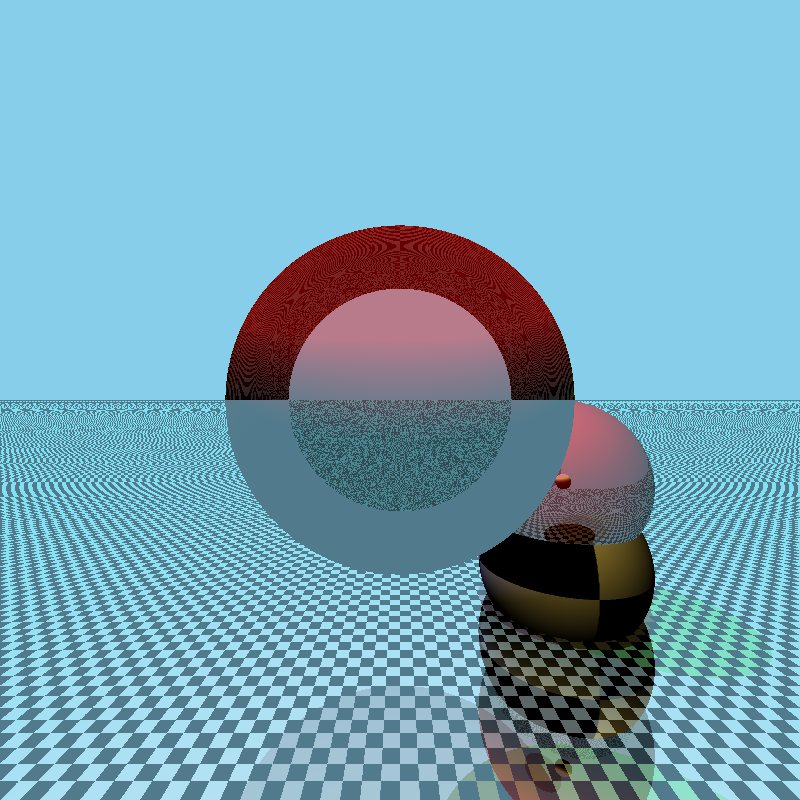
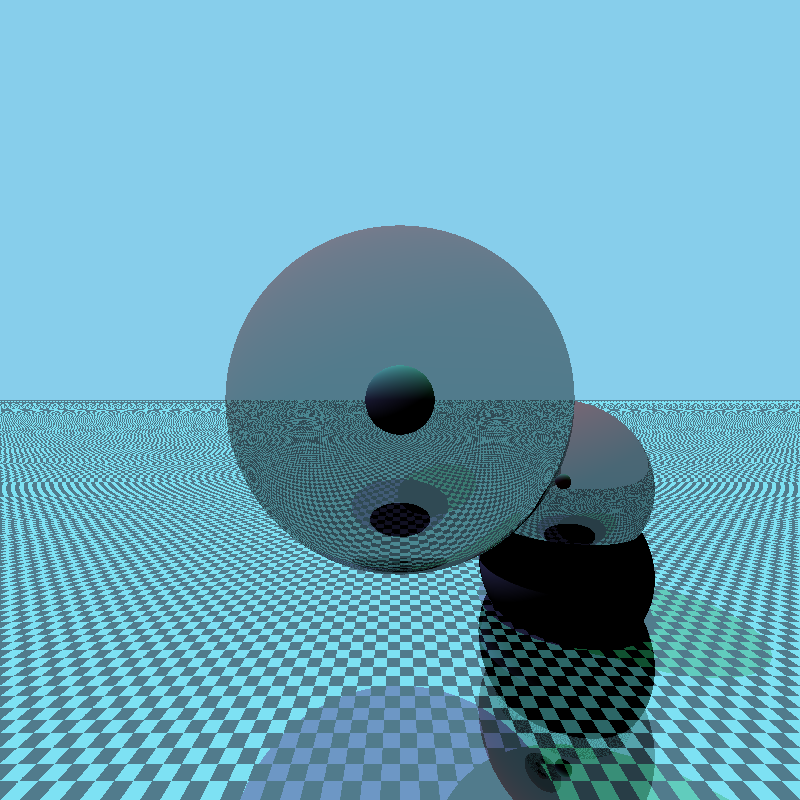
benchmarks restaurados, corregido error al deserializar TextureData y rendimiento mejorado en alrededor de un 86%

Changed region(s): [[0.0, 0.2812, 1.0, 1.0]]

diff --git a/src/lib.rs b/src/lib.rs
@@ -6,10 +6,10 @@ pub mod objects;
 pub mod color;
 pub mod textures;
 pub mod material;
-use maths::vector3::Vector3;
 use maths::point::Point3D;
+use maths::vector3::Vector3;
 use color::Color;
-use objects::Ray;
+use objects::{Ray,SceneObject};
 use image::{DynamicImage, GenericImage};
 pub use image;
 #[derive(Serialize,Deserialize)]
@@ -52,7 +52,7 @@ impl Scene{
         imagen
     }
     fn object_between(&self,ray: &Ray)->bool{
-        for objeto in self.parse_array(){
+        for objeto in &self.objects_list{
             if objeto.intersection_point(&ray).is_some() {
                  return true;
             }
@@ -61,7 +61,7 @@ impl Scene{
     }
     fn object_between_with_point(&self,ray:&Ray)->Vec<Point3D>{
         let mut intersecciones = Vec::new();
-        for objeto in &self.parse_array(){
+        for objeto in &self.objects_list{
             if let Some(valor) = objeto.intersection_point(&ray){
                 intersecciones.push(valor);
             }
@@ -69,7 +69,7 @@ impl Scene{
         intersecciones
     }
     //esto es ineficiente pero me evita tener que reescribir mucho codigo
-    #[inline]
+    /*#[inline]
     fn parse_array(&self)->Vec<Box<&dyn objects::SceneObject>>{
         let mut vector: Vec<Box<&dyn objects::SceneObject>> = Vec::new();
         for objeto in &self.objects_list{
@@ -79,11 +79,11 @@ impl Scene{
             }
         }
         vector
-    }
+    }*/
     fn ray_caster(&self,rayo: &Ray,current_iteration: usize)->Option<Color>{
         let mut temp = None;
         let mut minimum_distance_to_intersection = (0.0,true);
-        for objeto in self.parse_array(){
+        for objeto in &self.objects_list{
             if let Some(hit_point) = objeto.intersection_point(&rayo){
                 let hit_point_module = hit_point.module();
                 if hit_point_module<minimum_distance_to_intersection.0 || minimum_distance_to_intersection.1 {
@@ -155,7 +155,7 @@ mod tests{
             Material::new( 
                 Texture::SolidColor(Color::new(1.0,0.0,0.0)),
                 0.5,
-                MaterialType::Refractive{refraction_index: 1.5,transparency:0.6}
+                MaterialType::Reflective{reflectivity:0.6}
             )
         )));
         escena.objects_list.push(Object::Sphere(Sphere::new(
@@ -289,5 +289,58 @@ mod tests{
             )
         )));
         escena.render().save("texturas.png").unwrap();
+    }
+    #[test]
+    fn luz_puntual() {
+        let mut escena = Scene::new();
+        escena.widht = 800;
+        escena.height = 800;
+        escena.lights.push(
+            Light::Spherical(
+                SphericalLight::new(
+                    Point3D::new(0.0, 6.0, -5.0), 
+                    Color::new_white(), 
+                    2000000.0,
+                )
+            )
+        );
+        escena.objects_list.push(Object::Sphere(Sphere::new(
+            Point3D::new(0.0, 0.0, -5.0),
+            2.0,
+            Material::new( 
+                Texture::SolidColor(Color::new(1.0,0.0,0.0)),
+                0.5,
+                MaterialType::Opaque
+            )
+        )));
+        escena.objects_list.push(Object::Sphere(Sphere::new(
+            Point3D::new(4.0, -4.0, -10.0),
+            2.0,
+            Material::new( 
+                Texture::new_texture("checkerboard.png".to_string()),
+                0.5,
+                MaterialType::Opaque
+            )
+        )));
+        escena.objects_list.push(Object::Sphere(Sphere::new(
+            Point3D::new(4.0, -2.0, -10.0),
+            2.0,
+            Material::new( 
+                Texture::SolidColor(Color::new(1.0,0.0,0.0)),
+                0.5,
+                MaterialType::Reflective{reflectivity: 0.5}
+                
+            )
+        )));
+        escena.objects_list.push(Object::Plane(Plane::new(
+            Point3D::new(0.0,-5.0,0.0),
+            Vector3D::new(0.0, 1.0, 0.0), 
+            Material::new( 
+                Texture::new_texture("checkerboard.png".to_string()),
+                0.5,
+                MaterialType::Opaque
+            )
+        )));
+        escena.render().save("luz_puntual.png").unwrap();
     }
 }

diff --git a/src/objects.rs b/src/objects.rs
@@ -84,6 +84,36 @@ pub enum Object{
     Plane(objects::Plane),
     Sphere(objects::Sphere),
 }
+impl SceneObject for Object{
+    #[inline]
+    fn intersection_point(&self,ray:&Ray)->Option<Point3D>{
+        match self{
+            Object::Plane(valor)=>valor.intersection_point(&ray),
+            Object::Sphere(valor)=>valor.intersection_point(&ray),
+        }
+    }
+    #[inline]
+    fn surface_normal(&self,hit_point: &Point3D)->Vector3D{
+        match self{
+            Object::Plane(valor)=>valor.surface_normal(&hit_point),
+            Object::Sphere(valor)=>valor.surface_normal(&hit_point),
+        }
+    }
+    #[inline]
+    fn object_material(&self)->&Material{
+        match self{
+            Object::Plane(valor)=>valor.object_material(),
+            Object::Sphere(valor)=>valor.object_material(),
+        }
+    }
+    #[inline]
+    fn texture_coordinates(&self,hit_point: &Point3D)->TextureCoordinates{
+        match self{
+            Object::Plane(valor)=>valor.texture_coordinates(&hit_point),
+            Object::Sphere(valor)=>valor.texture_coordinates(&hit_point),
+        }
+    }
+}
 #[derive(Debug,Clone,Serialize,Deserialize)]
 pub struct DirectionalLight{
     pub color: Color,
@@ -180,7 +210,7 @@ pub trait SceneObject{
             }else if let Light::Spherical(luz) = light {
                 light_color = &luz.color;
                 direction = (hit_point.clone() - luz.punto.clone()).into_vector();
-                let shadow_ray = Ray::new(luz.punto.clone()/* + (self.surface_normal(&hit_point)*scene.shadow_bias).into_point()*/,direction.clone());          
+                let shadow_ray = Ray::new(luz.punto.clone()+ (self.surface_normal(&hit_point)*scene.shadow_bias).into_point(),direction.clone());          
                 let mut temp:f64 = luz.intensidad / (std::f64::consts::PI * 4.0 * direction.module().powi(2));
                 for punto in scene.object_between_with_point(&shadow_ray) {
                     if (punto - luz.punto.clone()).module() < direction.module(){
@@ -232,10 +262,6 @@ pub mod objects{
     }
     impl SceneObject for Sphere{
         fn intersection_point(&self,ray: &Ray)->Option<Point3D>{
-            //Como uso trait objects, esta fue la mejor solucion que encontré para evitar que marque sombra en sus propias intersecciones
-            if ((ray.punto.clone()-self.center.clone()).module() - self.radio).abs() < 1e-6{
-                return None;
-            }
             let aux = ray.direccion.clone().normalize().dot_product(&(ray.punto.clone() - self.center.clone()));
             let discriminante = aux.powi(2)-((ray.punto.clone()-self.center.clone()).module().powi(2)-self.radio.powi(2));
             if discriminante < 0.0 {
@@ -251,7 +277,7 @@ pub mod objects{
                     }
                     return Some((lambda1 * ray.direccion.clone()).into_point() + ray.punto.clone())
                 }  
-            }             
+            }         
         }
         fn surface_normal(&self,hit_point: &Point3D)->Vector3D{
             hit_point.substract(&self.center).normalize()

diff --git a/src/textures.rs b/src/textures.rs
@@ -6,7 +6,7 @@ use image::{
     GenericImageView,
 };
 use serde::{
-    Serialize, Deserialize,
+    Serialize, Deserialize,Deserializer
 };
 pub struct TextureCoordinates{
     pub x: f64,
@@ -41,9 +41,6 @@ impl Texture{
         match self{
             Texture::SolidColor(valor)=>valor.clone(),
             Texture::Texture(valor)=>{
-                if let None = valor.texture {
-                    
-                }
                 if let Some(imagen) = &valor.texture{
                     fn wrap(val: f64, bound: u32)->u32{
                         let signed_bound = bound as i32;
@@ -74,14 +71,69 @@ impl Texture{
         })
     }
 }
-#[derive(Clone,Serialize,Deserialize)]
+#[derive(Clone,Serialize)]
 pub struct TextureData{
-    pub path: String,
+    path: String,
     #[serde(skip)]
-    #[serde(default = "texture_deserializer")]
-    pub texture: Option<DynamicImage>,
+    texture: Option<DynamicImage>,
 }
-#[inline]
-pub fn texture_deserializer()->Option<DynamicImage>{
-    None
+use std::fmt;
+
+use serde::de::{self, Visitor, SeqAccess, MapAccess};
+
+impl<'de> Deserialize<'de> for TextureData {
+    fn deserialize<D>(deserializer: D) -> Result<Self, D::Error>
+    where
+        D: Deserializer<'de>,
+    {
+        #[derive(Deserialize)]
+        #[serde(field_identifier, rename_all = "lowercase")]
+        enum Field {Path}
+        struct DurationVisitor;
+        
+        impl<'de> Visitor<'de> for DurationVisitor {
+            type Value = TextureData;
+
+            fn expecting(&self, formatter: &mut fmt::Formatter) -> fmt::Result {
+                formatter.write_str("struct TextureData")
+            }
+
+            fn visit_seq<V>(self, mut seq: V) -> Result<TextureData, V::Error>
+            where
+                V: SeqAccess<'de>,
+            {
+                let path = seq.next_element()?
+                    .ok_or_else(|| de::Error::invalid_length(0, &self))?;
+                Ok(TextureData{
+                    texture: Some(image::open(&path).unwrap()),
+                    path,
+                })
+            }
+
+            fn visit_map<V>(self, mut map: V) -> Result<TextureData, V::Error>
+            where
+                V: MapAccess<'de>,
+            {
+                let mut path = None;
+                while let Some(key) = map.next_key()? {
+                    match key {
+                        Field::Path => {
+                            if path.is_some() {
+                                return Err(de::Error::duplicate_field("secs"));
+                            }
+                            path = Some(map.next_value()?);
+                        }
+                    }
+                }
+                let path = path.ok_or_else(|| de::Error::missing_field("secs"))?;
+                Ok(TextureData{
+                    texture: Some(image::open(&path).unwrap()),
+                    path,
+                })
+            }
+        }
+
+        const FIELDS: &'static [&'static str] = &["path"];
+        deserializer.deserialize_struct("TextureData", FIELDS, DurationVisitor)
+    }
 }

diff --git a/benches/benchmarks.rs b/benches/benchmarks.rs
@@ -1,0 +1,14 @@
+use criterion::{
+    black_box, criterion_group, criterion_main, Criterion
+};
+use raytracerlib::{
+    Scene,
+};
+pub fn criterion_benchmark(c: &mut Criterion){
+    let mut escena: Scene = serde_json::from_str(&std::fs::read_to_string("benches\\test_4_esferas_fullHD.json").unwrap()).unwrap();
+    c.bench_function("4 esferas y un plano con texturas en 800x800",|b| b.iter(||{
+        black_box(escena.render());
+    }));
+}
+criterion_group!(benches, criterion_benchmark);
+criterion_main!(benches);

diff --git a/src/maths/point.rs b/src/maths/point.rs
@@ -23,6 +23,16 @@ impl Point3D{
     pub fn into_vector(self)->Vector3D{
         Vector3D::new_from_point(self)
     }
+    pub fn normalize(mut self)->Self{
+        let largo = self.module();
+        if largo == 0.0{
+            return self;
+        }
+        self.x /= largo;
+        self.y /= largo;
+        self.z /= largo; 
+        self
+    }
 }
 impl ops::Sub for Point3D{
     type Output = Point3D;

diff --git a/src/maths/vector3.rs b/src/maths/vector3.rs
@@ -58,6 +58,7 @@ pub trait Vector3{
     fn substract<T: Vector3>(&self,vector: &T)->Vector3D{
         self.addition(&vector.escalar_product(-1.0))
     }
+    #[inline]
     fn into_point(&self)->Point3D{
         Point3D::new(self.x(),self.y(),self.z())
     }
